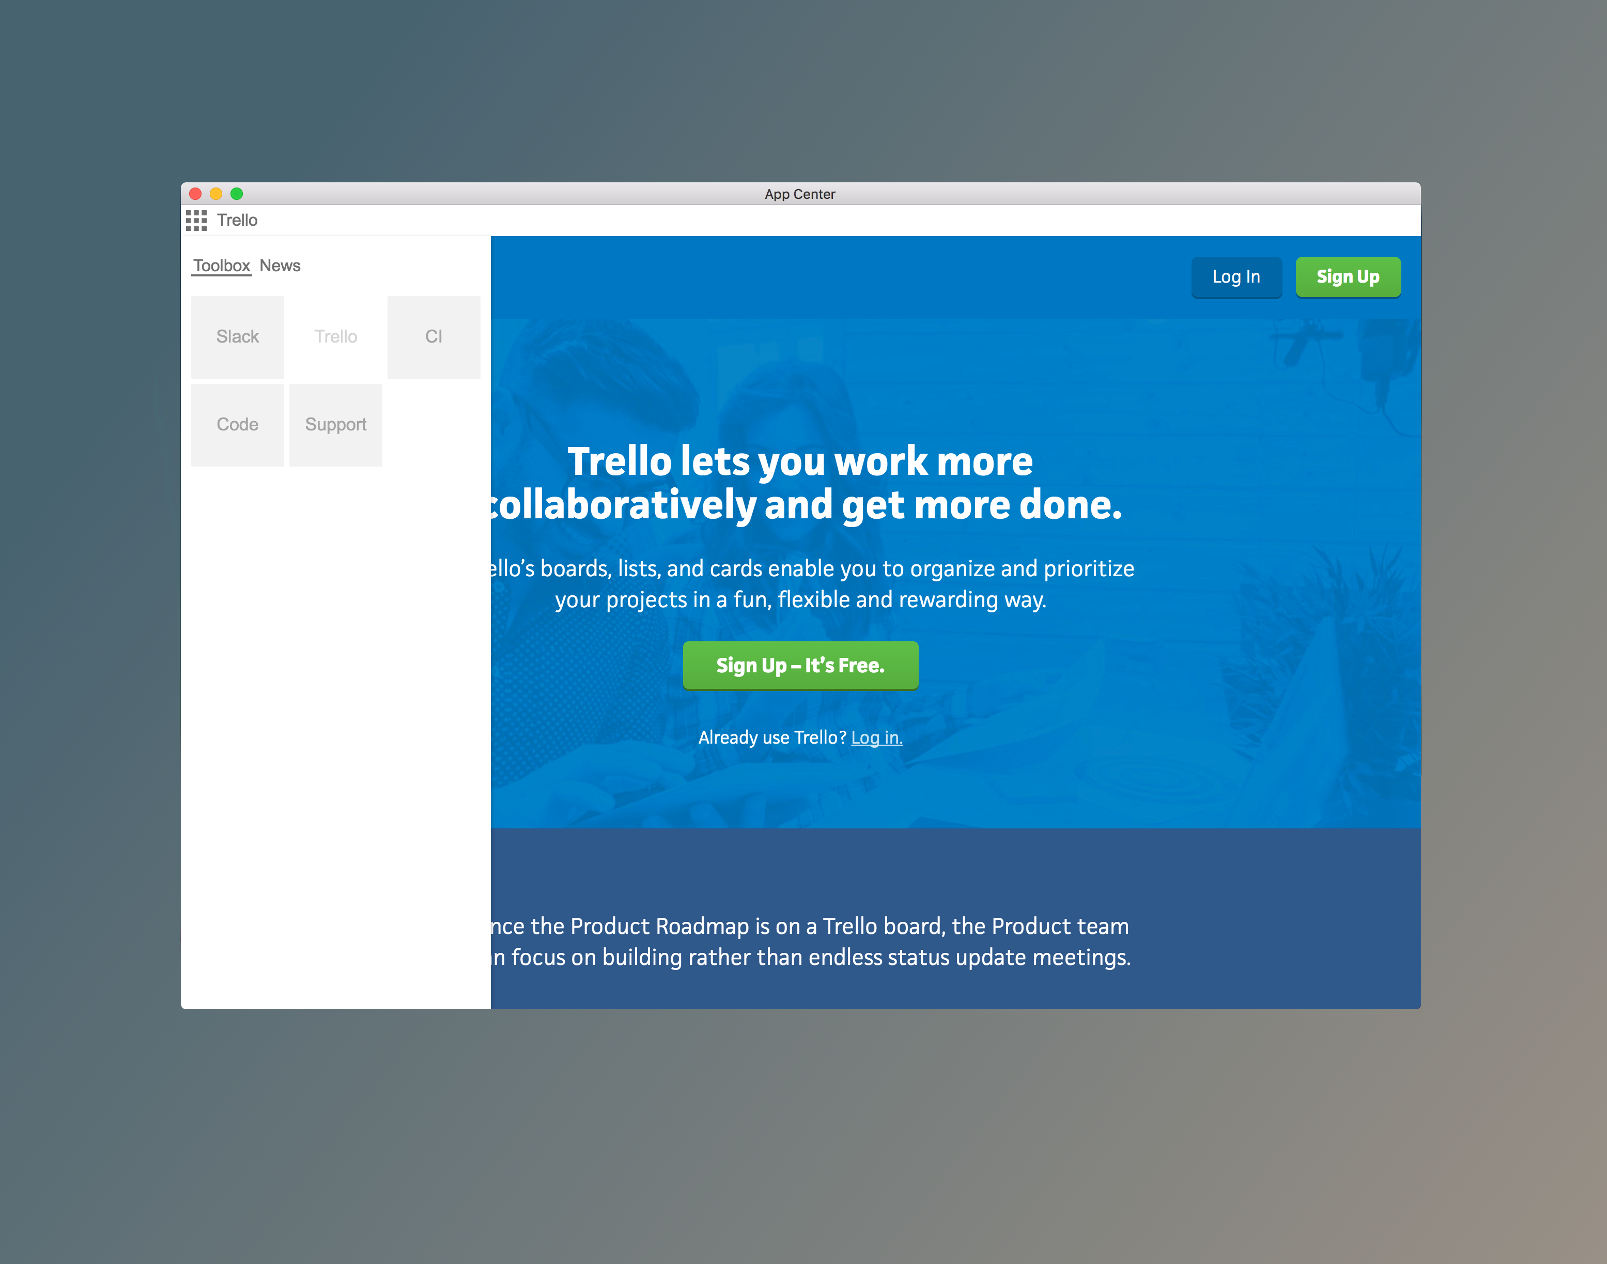
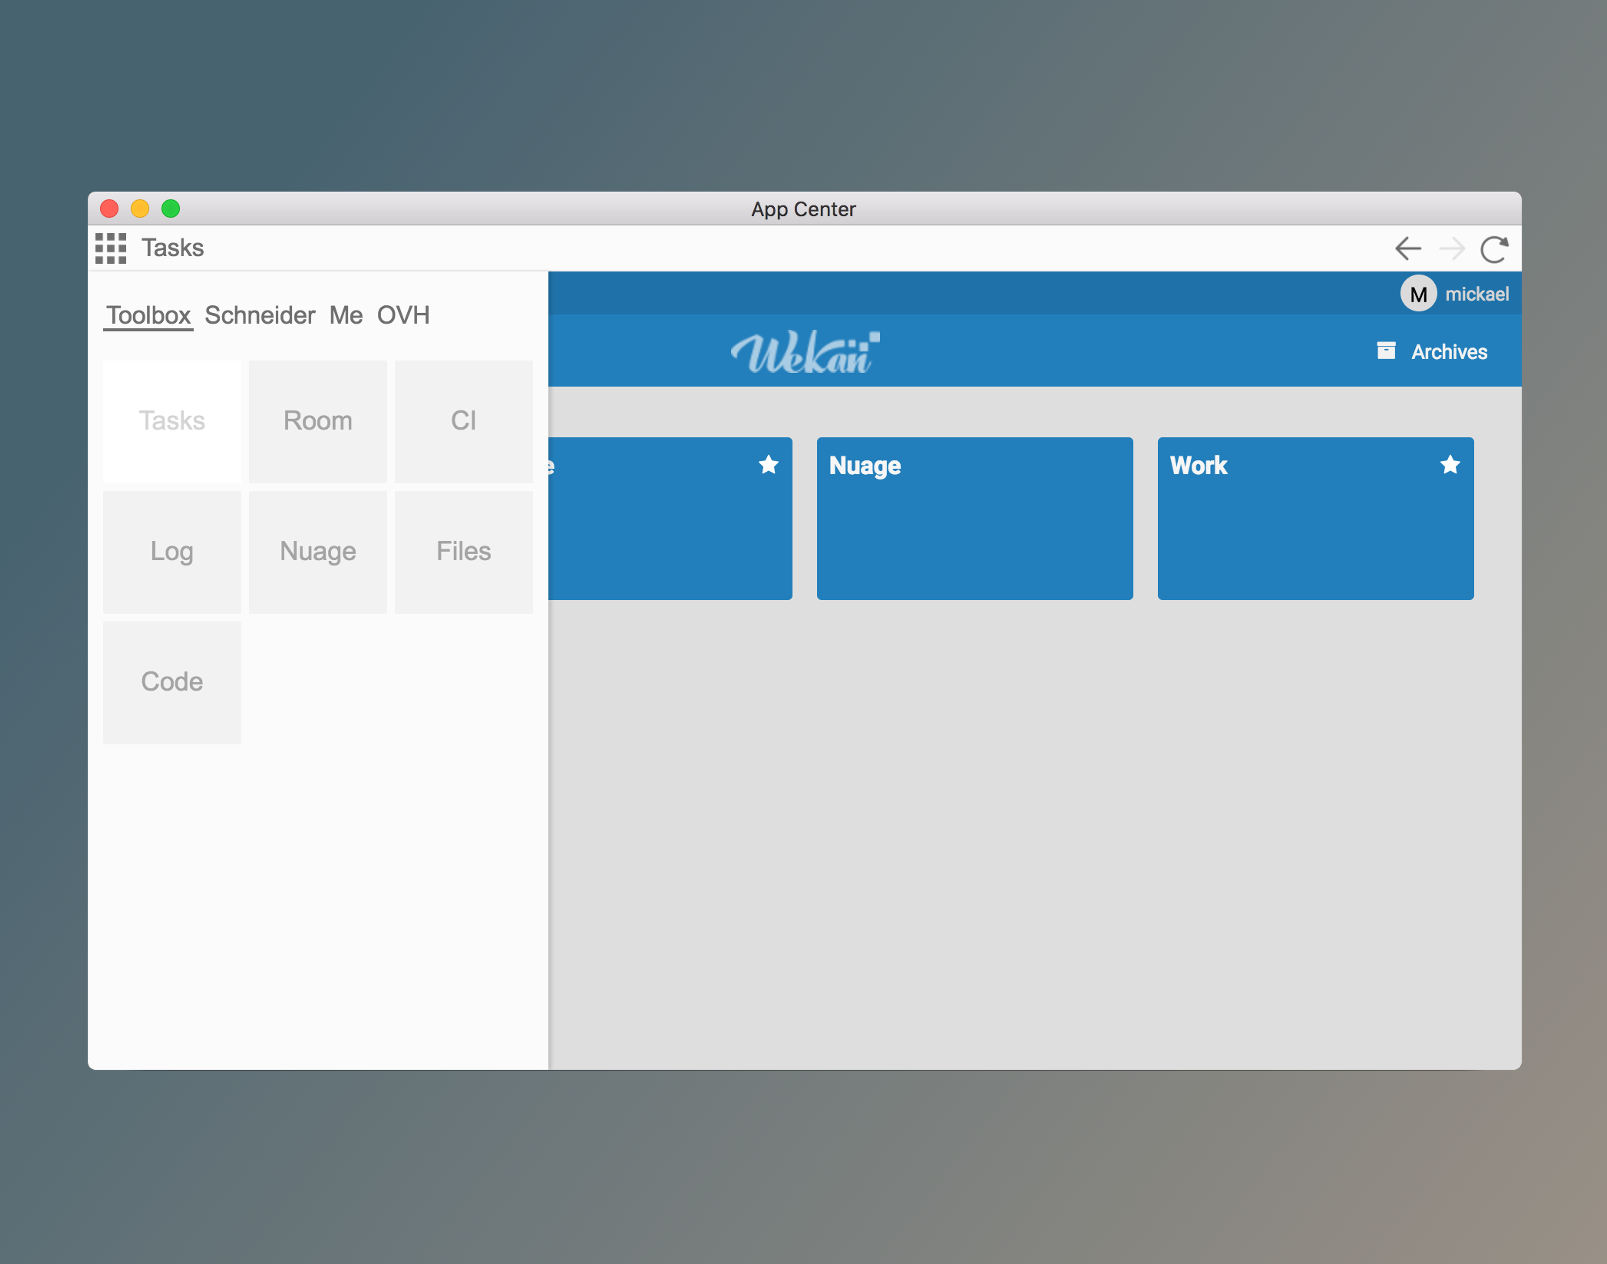
feature (new): navigation and other various improvements

diff --git a/src/assets/js/action.js b/src/assets/js/action.js
@@ -156,9 +156,9 @@ const _paint = {
             if($els[k].getAttribute('data-target-url') === state.focus.url){
                 $els[k].setAttribute('class', 'active');
             }
-        }        
+        }
 
-        
+
         // manage the webview
         for(let i=0; i<$pages.length; i++){
             if($pages[i].getAttribute('data-url') === state.focus.url){
@@ -173,26 +173,63 @@ const _paint = {
             $page.setAttribute('src', state.focus.url);
             $page.setAttribute('class', 'not-visible');
             $page.setAttribute('data-url', state.focus.url);
-            $dom.loader().removeAttribute('class');
 
             // setup to open window in another browser
             const openInNewWindow = (e, url) => {ipc.send('new-window', url)};
+
+            // setup loader
+            $dom.loader().removeAttribute('class');
             $page.addEventListener('did-stop-loading', function(){
                 $dom.loader().setAttribute('class', 'hide');
                 $page.removeAttribute('class');
+                navigation_setup($page);
+
+                // navigation buttons
+                $dom.navigate().forward.active.onclick = function(){
+                    $page.goForward();
+                };
+                $dom.navigate().backward.active.onclick = function(){
+                    $page.goBack();
+                };
+                $dom.navigate().refresh.onclick = function(){
+                    $page.reload();
+                };
+                
+
+                // open page in a new window
                 $page.getWebContents().removeListener('new-window', openInNewWindow);
                 $page.getWebContents().on('new-window', openInNewWindow);
+
+                // page listeners
                 $page.getWebContents().on('did-start-loading', function(){
+                    navigation_setup($page);
                     $dom.loader().removeAttribute('class');
                 });
                 $page.getWebContents().on('did-stop-loading', function(){
+                    navigation_setup($page);
                     $dom.loader().setAttribute('class', 'hide');
                 });
             });
+            function navigation_setup($webview){
+                if($webview.getWebContents().canGoBack()){
+                    $dom.navigate().backward.inactive.setAttribute('class', 'hide');
+                    $dom.navigate().backward.active.removeAttribute('class');
+                }else{
+                    $dom.navigate().backward.active.setAttribute('class', 'hide');
+                    $dom.navigate().backward.inactive.removeAttribute('class');
+                }
+                if($webview.getWebContents().canGoForward()){
+                    $dom.navigate().forward.inactive.setAttribute('class', 'hide');
+                    $dom.navigate().forward.active.removeAttribute('class');
+                }else{
+                    $dom.navigate().forward.active.setAttribute('class', 'hide');
+                    $dom.navigate().forward.inactive.removeAttribute('class');                    
+                }
+            }
             $dom.view().appendChild($page);
         }
 
-    },    
+    },
     shortcut: function(state){
         let $els = $dom.app_shortcut();
         if(state.shortcut.step === 2){

diff --git a/src/assets/css/style.css b/src/assets/css/style.css
@@ -19,11 +19,11 @@ html,body{height: 100%; overflow: hidden;}
 .hide{display: none;}
 .not-visible{opacity: 0;}
 
-#tabs{ height: 30px; width: 100%; background: white; box-shadow: rgba(0, 0, 0, 0.14) 0px 4px 5px 0px, rgba(0, 0, 0, 0.12) 0px 1px 10px 0px, rgba(0, 0, 0, 0.2) 0px 2px 4px -1px}
-#tabs #menu-icon{width: 20px; height: 20px; padding: 5px; cursor: pointer; float: left; margin-right: 5px;}
+#tabs{ height: 30px; width: 100%; background: #fbfbfb; box-sizing: border-box; border-bottom: 1px solid #f2f2f2; box-shadow: rgba(0, 0, 0, 0.14) 0px 4px 5px 0px, rgba(0, 0, 0, 0.12) 0px 1px 10px 0px, rgba(0, 0, 0, 0.2) 0px 2px 4px -1px}
+#tabs #menu-icon{width: 20px; height: 20px; padding: 5px; cursor: pointer; margin-right: 5px;}
 #tabs #menu-title{line-height: 30px; cursor: pointer;}
 
-#tabs #menu-content{position: fixed; top: 30px; left: 0; bottom: 0; background: white; padding: 10px; box-shadow: rgba(0, 0, 0, 0.14) 2px 0 2px 0px; width: 280px}
+#tabs #menu-content{position: fixed; top: 30px; left: 0; bottom: 0; background: #fbfbfb; padding: 10px; box-shadow: rgba(0, 0, 0, 0.14) 2px 0 2px 0px; width: 280px}
 #tabs #menu-content #group{margin-bottom: 20px; margin-top: 10px;}
 #tabs #menu-content #group span.active{border-bottom: 2px solid rgb(111,111,111);}
 #tabs #menu-content #group span{padding: 0 2px; cursor: pointer; margin-right: 5px;}
@@ -42,7 +42,7 @@ html,body{height: 100%; overflow: hidden;}
     width: 80px;
     height: 80px;
     line-height: 80px;
-    white-space: nowrap;
+    #fbfbfb-space: nowrap;
     overflow: hidden;
     text-overflow: ellipsis;
     border-radius: 1px;
@@ -62,10 +62,12 @@ html,body{height: 100%; overflow: hidden;}
 #view{ height: calc(100% - 30px); width: 100%;}
 #view webview{height: 100%; width: 100%; display: inline-flex;}
 #view webview.hide{height: 0; width: 0; display: inline-flex;}
-#loader{text-align: center; float: right; padding-right: 20px;}
+#loader{text-align: center; display: inline-block; margin: 0 10px;}
+#loader.hide{display: none;}
 #loader svg{padding: 5px 0 0 0; width: 20px; height: 20px;}
-
-
+#action_button{float: right; padding-right: 5px; margin-left: auto; align-self: center;}
+#action_button img{height: 20px; width: 20px; padding: 2px; margin: 3px 0; cursor: pointer;}
+#action_button img#navigate_backward:hover, img#navigate_forward:hover, img#refresh:hover{background: #f2f2f2; border-radius: 2px;}
 
 
 .modal{
@@ -81,7 +83,7 @@ html,body{height: 100%; overflow: hidden;}
     width: 80%;
     max-width: 400px;
     margin: 0 auto;
-    background: white;
+    background: #fbfbfb;
     padding: 20px;
     border-radius: 2px;
 }
@@ -101,6 +103,7 @@ html,body{height: 100%; overflow: hidden;}
     margin: 10px 2px;
     width: calc(50% - 4px);
     border: none;
-    color: white;
+    color: #fbfbfb;
     background: rgb(111,111,111)
 }
+.flex{display: flex;}

diff --git a/generate.js b/generate.js
@@ -19,12 +19,19 @@ const html = `
 
   <body>
       <header id="tabs">
-          <div class="no-select">
+          <div class="no-select flex">
               <img id="menu-icon" src="./assets/icons/menu.png"/>
+              <div id="menu-title">Title</div>
               <div id="loader">
                   <svg width="120px" height="120px" xmlns="http://www.w3.org/2000/svg" viewBox="0 0 100 100" preserveAspectRatio="xMidYMid"><rect x="0" y="0" width="100" height="100" fill="none"></rect><circle cx="50" cy="50" r="40" stroke="rgba(100%,100%,100%,0.679)" fill="none" stroke-width="10" stroke-linecap="round"></circle><circle cx="50" cy="50" r="40" stroke="#6f6f6f" fill="none" stroke-width="6" stroke-linecap="round"><animate attributeName="stroke-dashoffset" dur="2s" repeatCount="indefinite" from="0" to="502"></animate><animate attributeName="stroke-dasharray" dur="2s" repeatCount="indefinite" values="150.6 100.4;1 250;150.6 100.4"></animate></circle></svg>
               </div>
-              <div id="menu-title">Title</div>
+              <div id="action_button">
+                  <img id="navigate_backward_inactive" src="./assets/icons/icon_left_inactive.png"/>
+                  <img class="hide" id="navigate_backward" src="./assets/icons/icon_left.png"/>
+                  <img id="navigate_forward_inactive" src="./assets/icons/icon_right_inactive.png"/>
+                  <img class="hide" id="navigate_forward" src="./assets/icons/icon_right.png"/>
+                  <img id="refresh" src="./assets/icons/icon_refresh.png"/>
+              </div>
           </div>
           <div id="menu-content">
               <div id="group" class="no-select">

diff --git a/src/assets/js/dom.js b/src/assets/js/dom.js
@@ -14,6 +14,7 @@ module.exports = {
     getPage: (url) => { return document.querySelector(`#view webview[data-url="${url}"]`);},
     getModal: () => { return document.querySelector('.modal') },
     getModalForm: () => { return document.querySelector('form') },
+    navigate: () => {return {refresh: document.querySelector('#refresh'), forward: {active: document.querySelector('#navigate_forward'), inactive: document.querySelector('#navigate_forward_inactive')}, backward: {active: document.querySelector('#navigate_backward'), inactive: document.querySelector('#navigate_backward_inactive')}}},
     getModalFormValues: () => {
         const $els = document.querySelectorAll('form input');
         let values = [];
@@ -27,9 +28,6 @@ module.exports = {
         Array.prototype.slice.call(this.app_shortcut())
             .map(($el) => $el.getAttribute('data-shortcut'))
             .filter((shortcut) => key === shortcut)
-    },
-    createPopup: (type) => {
-        
     }
 };
 
